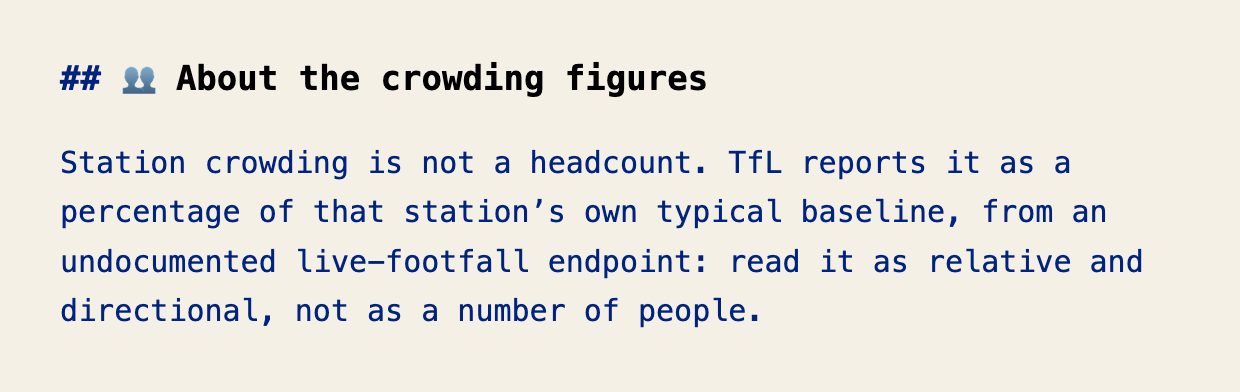
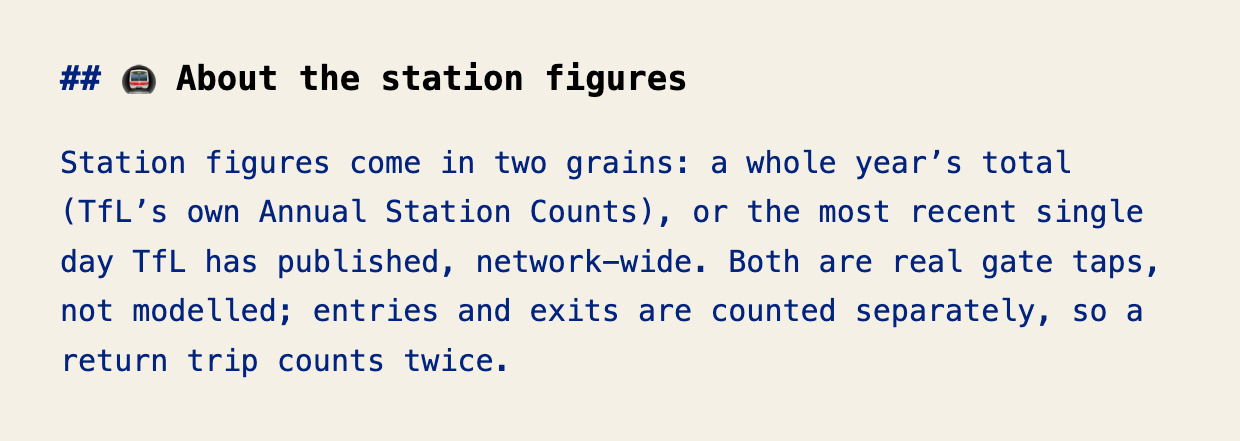
Pinned thread credits HM Land Registry and the Rail Delivery Group
Adds landregistry.data.gov.uk and nationalrail.co.uk to the source
reply, and "house prices, trains due" to the figures card, for the
house_prices and rail_departures veins. Reposted and re-pinned with
--replace on 12 September 2026; every facet checked against the byte
ranges before posting, and the live thread read back afterwards.

Also commits the 1 September edit that had sat uncommitted since: the
crowding card replaced by the station-figures card and
crowding.data.tfl.gov.uk added to the sources. That version was what
the live thread already carried; only the repo was behind.

Changed region(s): [[0.0306, 0.3367, 0.9194, 0.7347], [0.0306, 0.1531, 0.5823, 0.2449], [0.0306, 0.7653, 0.6129, 0.8571]]

diff --git a/london_index_methodology.py b/london_index_methodology.py
@@ -75,16 +75,19 @@ INTRO = ("This account provides a portrait of London, drawn from the city's own 
          "the posts. Every publisher is credited at the end of this thread.")
 COUNTS = ("Counts appear exactly as published: bikes and docking points, river "
           "levels against their own typical range, reported crimes, air quality "
-          "readings, museum visitor totals. Nothing here is estimated or modelled "
-          "by this account itself.")
-# TfL does not document what "baseline" means beyond "a station's own typical
-# level" (checked 30 August 2026: no public definition of the window or method
-# behind percentageOfBaseline), so this deliberately claims nothing more
-# specific than harvest_tfl_crowding()'s own docstring does.
-CROWDING = ("Station crowding is not a headcount. TfL reports it as a percentage "
-            "of that station's own typical baseline, from an undocumented "
-            "live-footfall endpoint: read it as relative and directional, not as "
-            "a number of people.")
+          "readings, museum visitor totals, station entries and exits, house "
+          "prices, trains due. Nothing here is estimated or modelled by this "
+          "account itself.")
+# tfl_crowding (TfL's undocumented, relative-to-itself /crowding/Live
+# endpoint) is paused as of 31 August 2026 - see HARVESTERS in
+# london_index_harvest.py for why - and station_usage/daily_footfall took
+# its place: real gate taps, not a relative percentage. This card describes
+# what the account now actually posts, not the retired vein.
+STATIONS = ("Station figures come in two grains: a whole year's total (TfL's own "
+            "Annual Station Counts), or the most recent single day TfL has "
+            "published, network-wide. Both are real gate taps, not modelled; "
+            "entries and exits are counted separately, so a return trip counts "
+            "twice.")
 # "13 ... out of 18" is LONDON_DCMS_MUSEUMS against the full row count in
 # london_index_harvest.py's Table 1 parse — update both together if DCMS adds
 # or drops a sponsored institution.
@@ -96,7 +99,7 @@ MUSEUMS = ("Museum visitor totals are the Department for Culture, Media and "
 CARDS = [
     {'heading': 'About this account', 'emoji': '\U0001f1ec\U0001f1e7', 'body': [INTRO]},
     {'heading': 'About the figures', 'emoji': '\U0001f9ee', 'body': [COUNTS]},
-    {'heading': 'About the crowding figures', 'emoji': '\U0001f465', 'body': [CROWDING]},
+    {'heading': 'About the station figures', 'emoji': '\U0001f687', 'body': [STATIONS]},
     {'heading': 'About the museum figures', 'emoji': '\U0001f5bc', 'body': [MUSEUMS]},
 ]
 
@@ -108,14 +111,31 @@ CARDS = [
 # never mistaken by _source_tb() for the "gov.uk" substring already inside
 # environment.data.gov.uk and data.london.gov.uk earlier in the same line.
 SOURCE_PREFIX = 'Sources: '
-SOURCE_LINE = (SOURCE_PREFIX + 'tfl.gov.uk, environment.data.gov.uk, data.police.uk, '
-               'data.london.gov.uk, londonair.org.uk, www.gov.uk')
+SOURCE_LINE = (SOURCE_PREFIX + 'tfl.gov.uk, crowding.data.tfl.gov.uk, '
+               'environment.data.gov.uk, data.police.uk, '
+               'data.london.gov.uk, londonair.org.uk, www.gov.uk, '
+               'landregistry.data.gov.uk, nationalrail.co.uk')
+# landregistry.data.gov.uk (UK House Price Index) and nationalrail.co.uk
+# (Rail Delivery Group's Live Departure Board, whose licence requires the
+# credit) added 12 September 2026 with the house_prices and rail_departures
+# veins. Neither is a substring of another listed domain, nor contains one:
+# 'data.gov.uk' and 'gov.uk' are never listed bare. Facet byte-ranges were
+# checked against the rendered text on the dry run before posting.
+# 'crowding.data.tfl.gov.uk' contains 'tfl.gov.uk' as a substring - the exact
+# hazard _source_tb()'s own docstring warns about. Safe only because
+# 'tfl.gov.uk' is listed FIRST in SOURCE_LINE, so .find('tfl.gov.uk') locates
+# the standalone occurrence before the embedded one; verified 1 September
+# 2026 by actually running _source_tb() and checking the facet byte-ranges
+# against the rendered text, not just reasoning about it.
 SOURCE_DOMAINS = [('tfl.gov.uk', 'https://tfl.gov.uk'),
+                  ('crowding.data.tfl.gov.uk', 'https://crowding.data.tfl.gov.uk'),
                   ('environment.data.gov.uk', 'https://environment.data.gov.uk'),
                   ('data.police.uk', 'https://data.police.uk'),
                   ('data.london.gov.uk', 'https://data.london.gov.uk'),
                   ('londonair.org.uk', 'https://www.londonair.org.uk'),
-                  ('www.gov.uk', 'https://www.gov.uk')]
+                  ('www.gov.uk', 'https://www.gov.uk'),
+                  ('landregistry.data.gov.uk', 'https://landregistry.data.gov.uk/app/ukhpi'),
+                  ('nationalrail.co.uk', 'https://www.nationalrail.co.uk')]
 
 
 def _alt(card):
